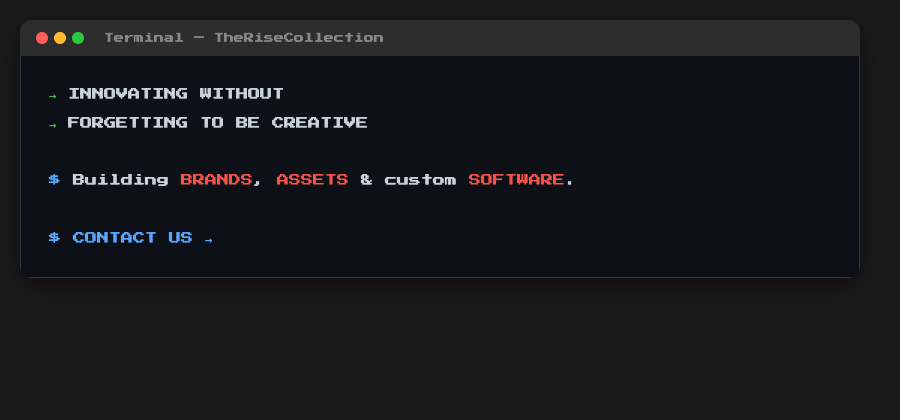
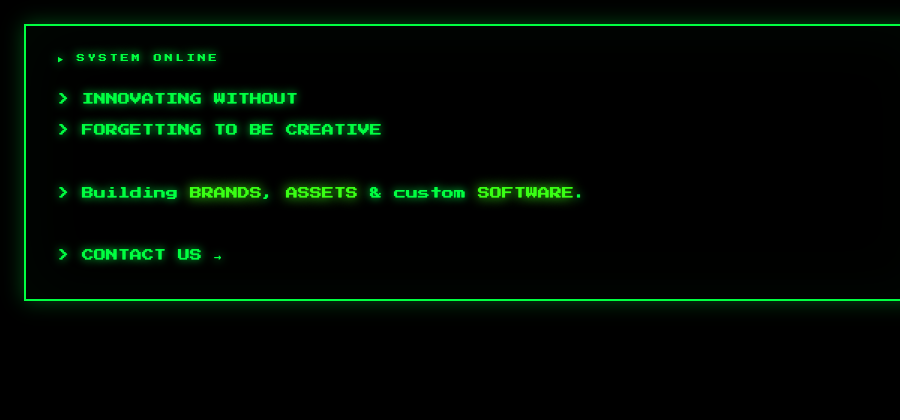
Hacker terminal: black + neon green, glow, SYSTEM ONLINE
Made-with: Cursor

diff --git a/render-hero.js b/render-hero.js
@@ -14,72 +14,44 @@ const html = `<!DOCTYPE html>
   <style>
     * { margin: 0; padding: 0; }
     body {
-      background: #1a1a1a;
-      padding: 20px;
+      background: #000;
+      padding: 24px;
       font-family: 'Press Start 2P', monospace;
     }
     .terminal {
       width: 840px;
-      border-radius: 12px;
-      overflow: hidden;
-      box-shadow: 0 8px 32px rgba(0,0,0,0.5);
+      border: 2px solid #00ff41;
+      padding: 28px 32px;
+      background: #000;
+      box-shadow: 0 0 20px rgba(0,255,65,0.3), inset 0 0 60px rgba(0,255,65,0.03);
     }
-    .terminal-titlebar {
-      background: #2d2d2d;
-      padding: 12px 16px;
-      display: flex;
-      align-items: center;
-      gap: 8px;
+    .header {
+      color: #00ff41;
+      font-size: 8px;
+      margin-bottom: 20px;
+      letter-spacing: 3px;
+      text-shadow: 0 0 10px #00ff41;
     }
-    .terminal-dots {
-      display: flex;
-      gap: 6px;
-    }
-    .terminal-dots span {
-      width: 12px;
-      height: 12px;
-      border-radius: 50%;
-    }
-    .terminal-dots .red { background: #ff5f57; }
-    .terminal-dots .yellow { background: #febc2e; }
-    .terminal-dots .green { background: #28c840; }
-    .terminal-title {
-      color: #888;
-      font-size: 10px;
-      margin-left: 12px;
-    }
-    .terminal-body {
-      background: #0d1117;
-      color: #c9d1d9;
-      padding: 24px 28px;
+    .line {
+      color: #00ff41;
       font-size: 12px;
-      line-height: 2.4;
-      border: 1px solid #30363d;
-      border-top: none;
+      line-height: 2.6;
+      text-shadow: 0 0 8px rgba(0,255,65,0.8);
     }
-    .terminal-body .arrow { color: #3fb950; }
-    .terminal-body .red { color: #f85149; text-shadow: none; }
-    .prompt { color: #58a6ff; }
+    .prompt { color: #00ff41; }
+    .highlight { color: #39ff14; text-shadow: 0 0 12px #39ff14; }
     .nowrap { white-space: nowrap; }
-    a { color: #58a6ff; text-decoration: none; }
-    a:hover { text-decoration: underline; }
+    a { color: #00ff41; text-decoration: none; text-shadow: 0 0 8px rgba(0,255,65,0.8); }
   </style>
 </head>
 <body>
   <div class="terminal">
-    <div class="terminal-titlebar">
-      <div class="terminal-dots">
-        <span class="red"></span>
-        <span class="yellow"></span>
-        <span class="green"></span>
-      </div>
-      <span class="terminal-title">Terminal — TheRiseCollection</span>
-    </div>
-    <div class="terminal-body">
-      <span class="arrow">→</span> INNOVATING WITHOUT<br>
-      <span class="arrow">→</span> FORGETTING TO BE CREATIVE<br><br>
-      <span class="prompt">$</span> <span class="nowrap">Building <span class="red">BRANDS</span>, <span class="red">ASSETS</span> & custom <span class="red">SOFTWARE</span>.</span><br><br>
-      <span class="prompt">$</span> <a href="#">CONTACT US →</a>
+    <div class="header">▶ SYSTEM ONLINE</div>
+    <div class="line">
+      <span class="prompt">></span> INNOVATING WITHOUT<br>
+      <span class="prompt">></span> FORGETTING TO BE CREATIVE<br><br>
+      <span class="prompt">></span> <span class="nowrap">Building <span class="highlight">BRANDS</span>, <span class="highlight">ASSETS</span> & custom <span class="highlight">SOFTWARE</span>.</span><br><br>
+      <span class="prompt">></span> <a href="#">CONTACT US →</a>
     </div>
   </div>
 </body>
